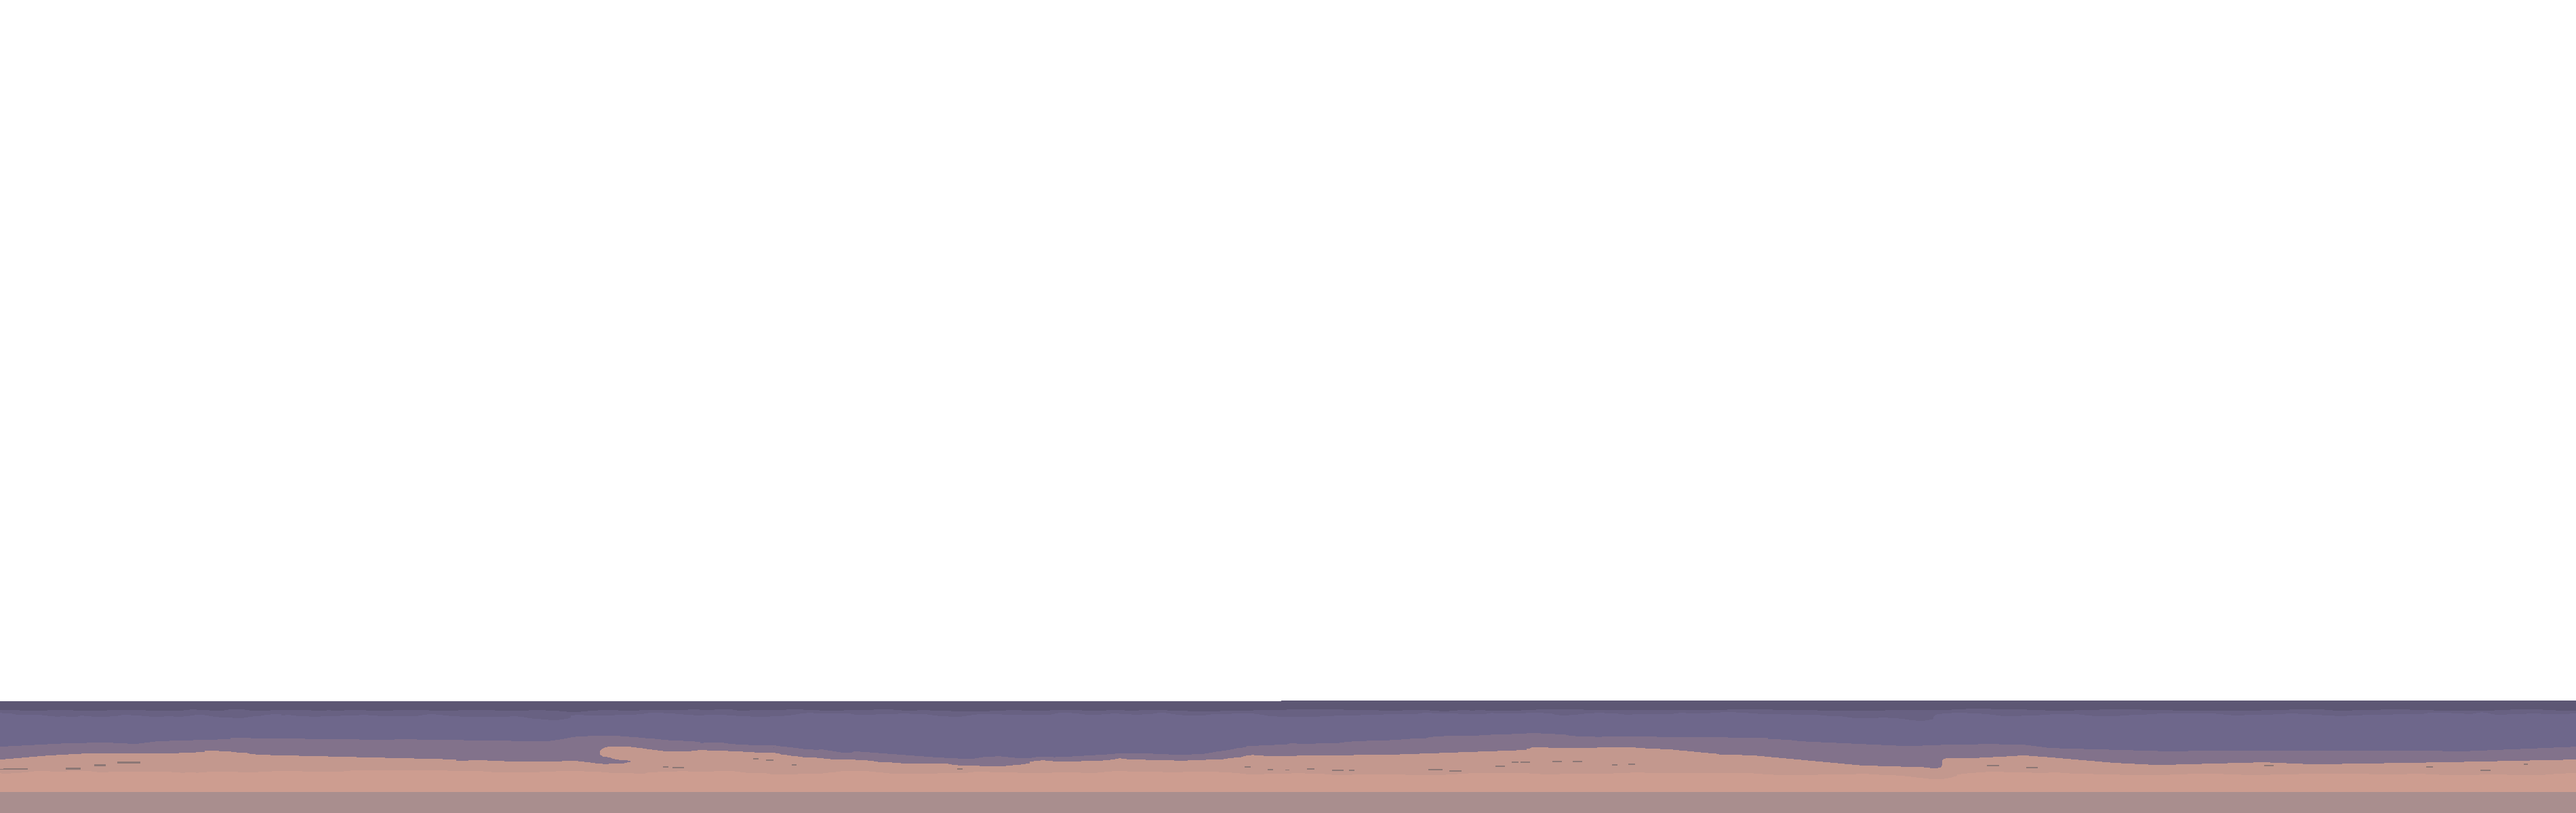
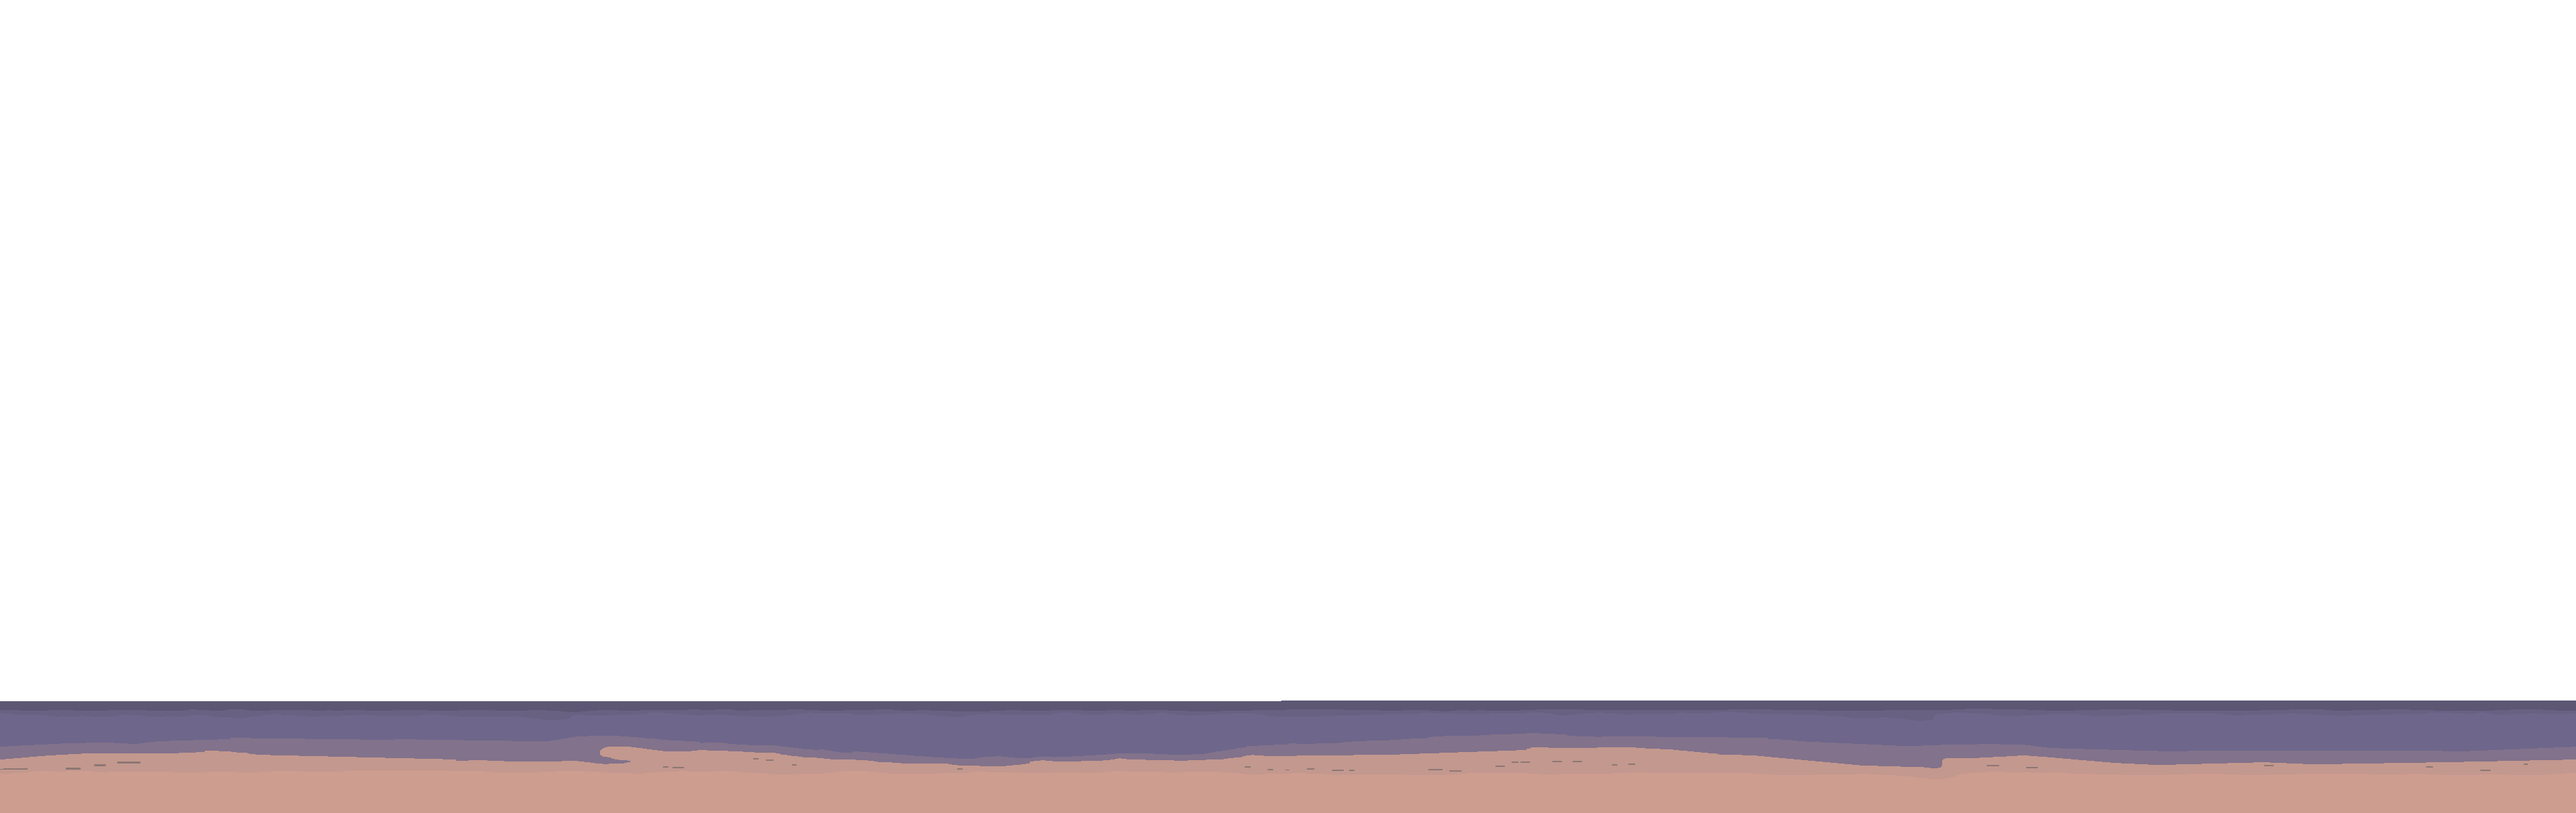
UI: Move Mew to right and add Latias/Latios flyby animation

Changed region(s): [[0.0, 0.9558, 1.0, 1.0]]

diff --git a/index.html b/index.html
@@ -208,8 +208,30 @@
         }
 
         .scene-mew-container {
-            position: absolute; top: 35%; left: 30%; width: 120px;
+            position: absolute; top: 35%; left: 70%; width: 120px;
             animation: scene-mew-drift 12s ease-in-out infinite, scene-mew-bob 6s ease-in-out infinite;
+        }
+        /* Latias & Latios Flyby */
+        .eon-duo-container {
+            position: absolute;
+            top: 20%;
+            left: -200px;
+            display: flex;
+            gap: 40px;
+            z-index: 35;
+            animation: eon-flyby 25s linear infinite;
+            animation-delay: 5s;
+        }
+        .eon-sprite {
+            width: 80px;
+            height: 80px;
+            transform: scaleX(-1); /* Mirror them to face right */
+            filter: drop-shadow(0 0 10px rgba(255,255,255,0.2));
+        }
+        @keyframes eon-flyby {
+            0% { left: -300px; transform: translateY(0); }
+            10% { left: 120vw; transform: translateY(-50px); }
+            100% { left: 120vw; transform: translateY(-50px); }
         }
         @keyframes scene-mew-drift {
             0%, 100% { transform: translateX(-80px); }
@@ -514,6 +536,14 @@
         <div class="scene-layer" id="scene-stars" data-speed="0.01" style="z-index:15;"></div>
         <!-- Distant mountains move very slowly -->
         <div class="scene-layer layer-4" data-speed="0.03"></div>
+        
+        <!-- Eon Duo Flyby -->
+        <div class="scene-layer" data-speed="0.02" style="z-index: 18;">
+            <div class="eon-duo-container">
+                <img src="https://projectpokemon.org/images/normal-sprite/latias.gif" class="eon-sprite">
+                <img src="https://projectpokemon.org/images/normal-sprite/latios.gif" class="eon-sprite">
+            </div>
+        </div>
         
         <!-- Main Sea - Slowest scenery -->
         <div class="scene-layer layer-1" data-speed="0.04"></div>
